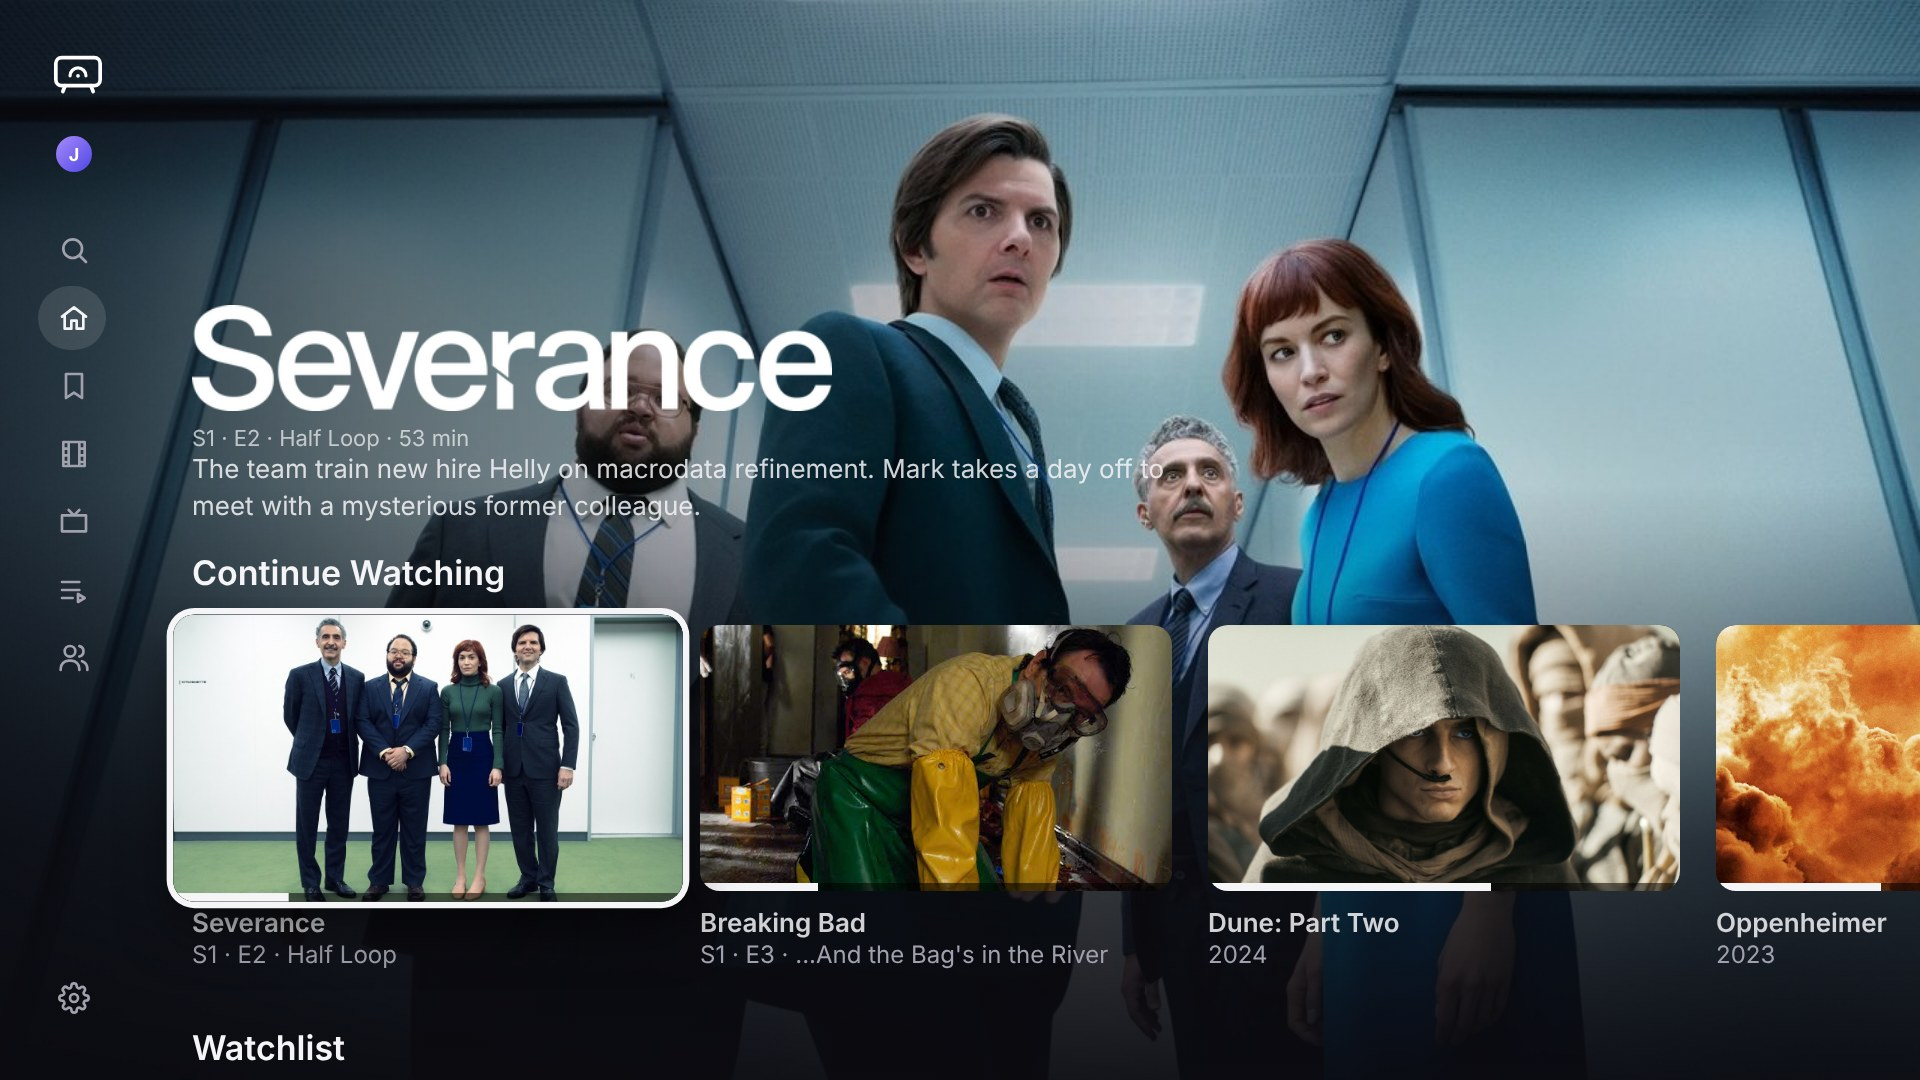
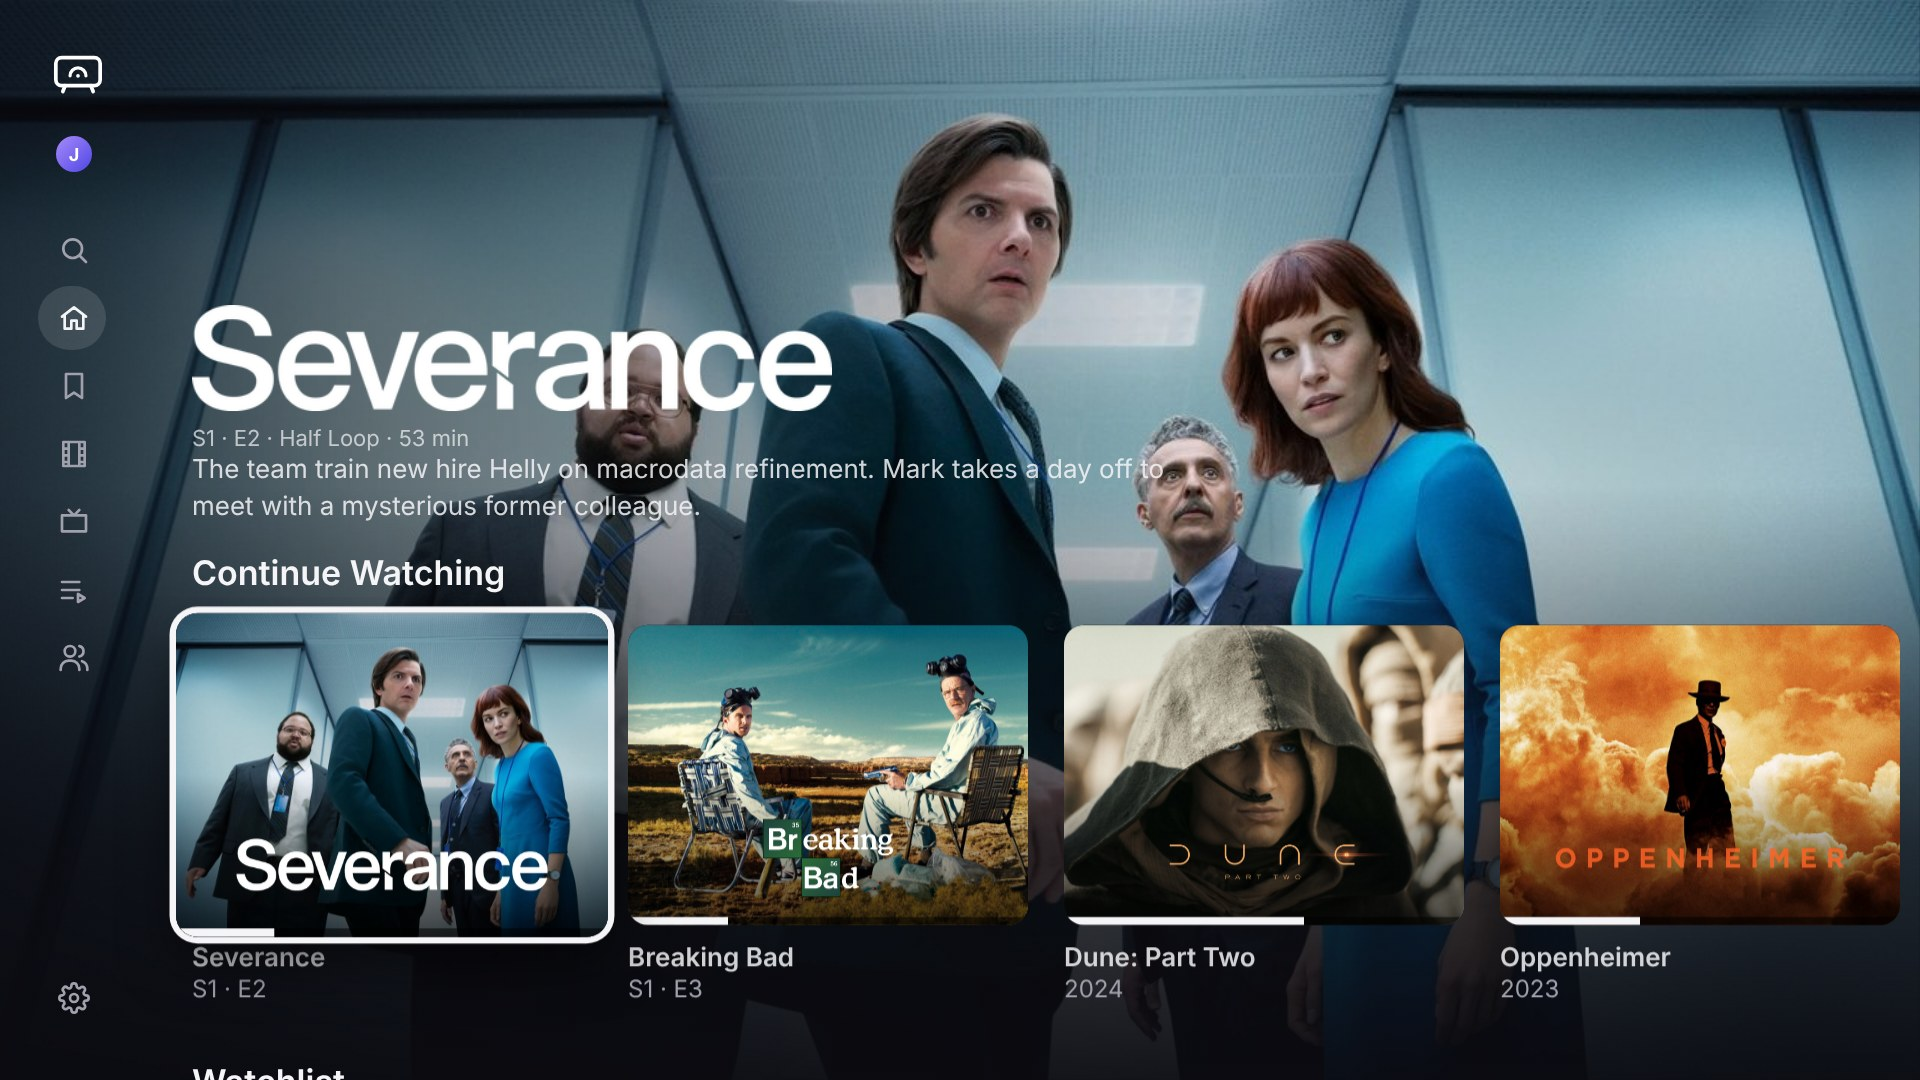
README Home picture with Continue Watching as Backdrops (#34)
Retakes docs/screenshots/home.jpg from the shared screenshot library, whose scratch server now
sets Continue Watching to Backdrops (arc-media-server #491). The app already reads that layout
from /me/prefs, so no code changes; the other pictures don't show Continue Watching and stay.

Changed region(s): [[0.0625, 0.55, 1.0, 0.9472], [0.0938, 0.9472, 0.1875, 1.0]]

diff --git a/docs/changes/2026-11-20-readme-backdrops.md b/docs/changes/2026-11-20-readme-backdrops.md
@@ -1,0 +1,40 @@
+# README Home picture with Continue Watching as Backdrops
+
+**20 November 2026**
+
+## What changed
+
+[`docs/screenshots/home.jpg`](screenshots/home.jpg) is retaken. The shared screenshot library now
+sets the scratch server's default Home layout to show Continue Watching as Backdrops: each title's
+backdrop with its clear logo (arc-media-server #491). The other README pictures don't show
+Continue Watching, so they're unchanged. That includes watch-together.jpg, which shows Dune: Part
+Two's page and the invitation list, not Home's rows.
+
+No app code changed. The app already reads the profile's Home layout from `/me/prefs` (`home`) and
+maps the `arc` style to Backdrops (`src/lib/home.ts`). After signing in as Jordan, Continue
+Watching showed Backdrops with logos for Severance, Breaking Bad, Dune: Part Two and Oppenheimer.
+
+## How it was taken
+
+The same way as before (`2026-11-20-readme-layout.md`):
+
+- the browser build (`npm run dev`) at 1920×1080, **not a TV**;
+- pointed at `node tools/screenshots.mjs --serve` on `127.0.0.1:18299`, run from #491's branch
+  because #491 hadn't merged yet (it changes only the library file, the script and its docs);
+- signed in with a link code approved by `--approve`, then Jordan;
+- with focus on Severance, the first card in Continue Watching.
+
+I looked at the picture before keeping it.
+
+On this sign-in, Home first put focus on the Watchlist row instead of Continue Watching. One press
+of Up moved it back. The earlier walk landed on Continue Watching, so this may be a timing issue
+with which row loads first. I didn't investigate it further.
+
+## Checks
+
+- `npm run check`: passed.
+- Nothing was tried on a real LG or Samsung TV.
+
+## Logging
+
+Picture only; nothing logs differently.
